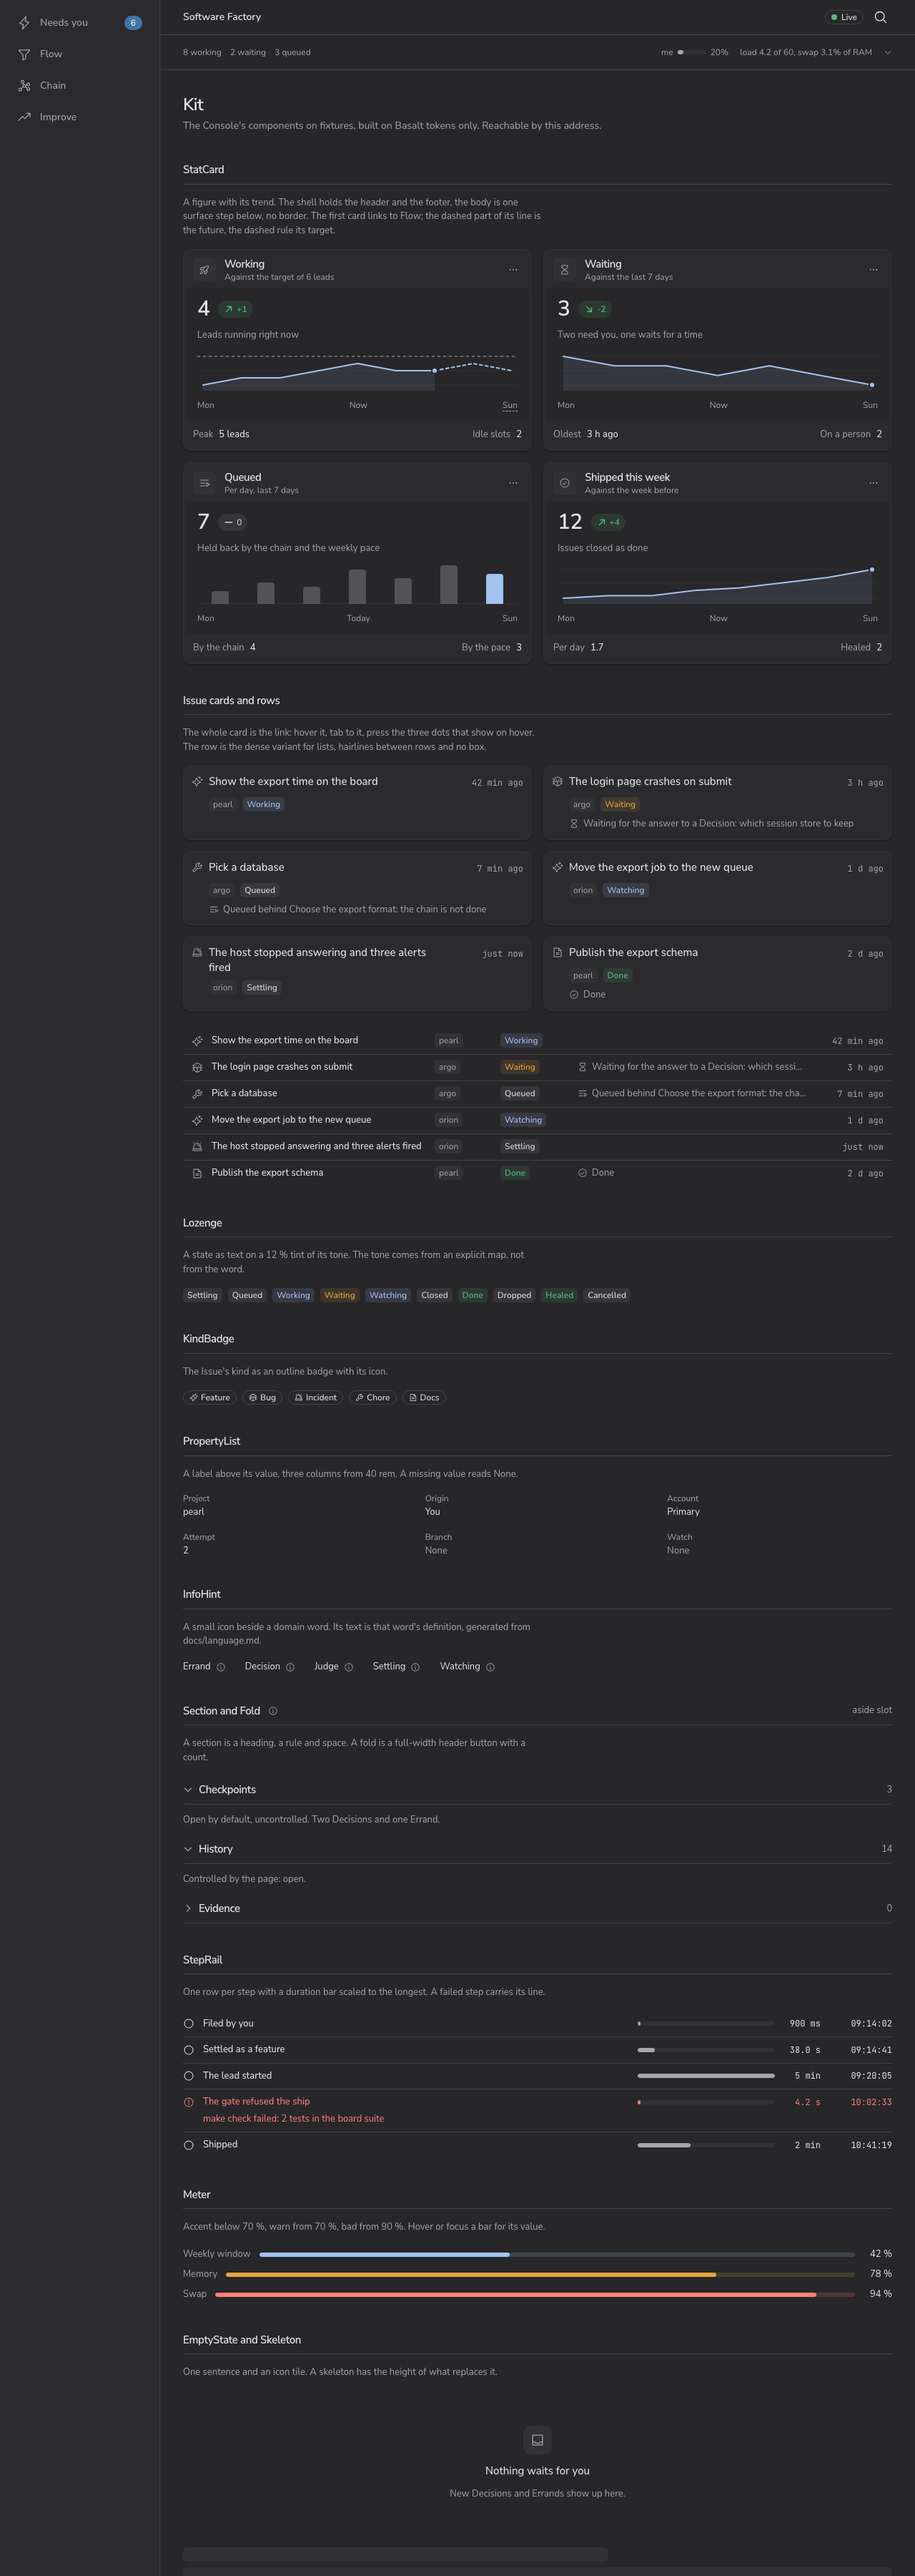
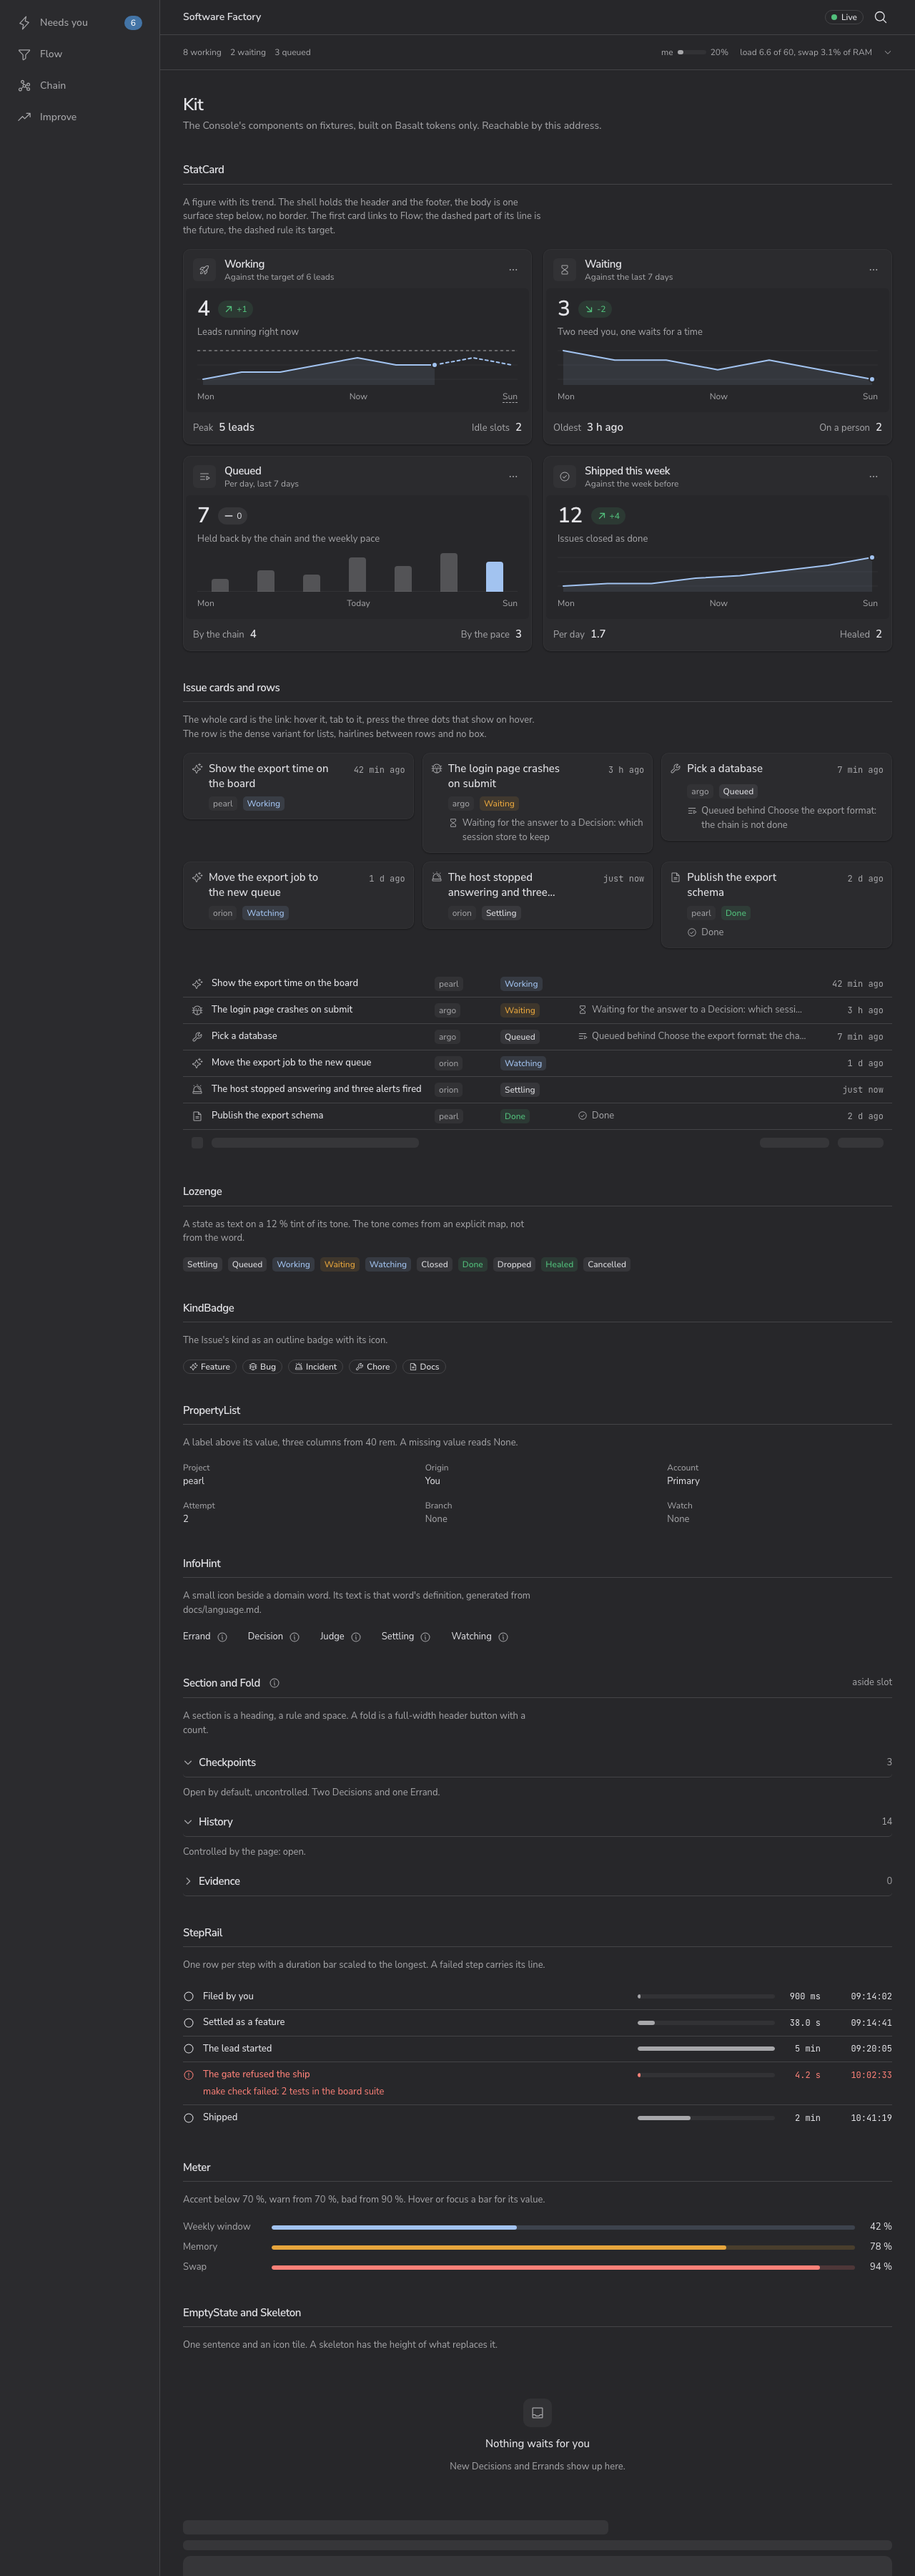
fix(console): kit review round 1: full-width Issue cards, error state, aligned meters, visible skeleton

diff --git a/apps/console/src/routes/kit.tsx b/apps/console/src/routes/kit.tsx
@@ -1,5 +1,12 @@
 import { createFileRoute, Link } from '@tanstack/react-router'
-import { CheckCircleIcon, HourglassIcon, QueueIcon, RocketLaunchIcon, TrayIcon } from '@phosphor-icons/react'
+import {
+  CheckCircleIcon,
+  HourglassIcon,
+  QueueIcon,
+  RocketLaunchIcon,
+  TrayIcon,
+  WarningCircleIcon,
+} from '@phosphor-icons/react'
 import { useState } from 'react'
 import {
   EmptyState,
@@ -19,6 +26,7 @@ import {
   StatCard,
   StepRail,
 } from '@/components/kit'
+import { Button } from '@/components/ui/button'
 import { KIT_ISSUES, KIT_METERS, KIT_NOW, KIT_PROPERTIES, KIT_STATS, KIT_STEPS } from '@/components/kit/fixtures'
 
 /** The component kit on fixtures: reachable by URL only (no nav entry, no palette command), no queries. */
@@ -80,22 +88,26 @@ function Kit() {
           The whole card is the link: hover it, tab to it, press the three dots that show on hover. The row is the dense
           variant for lists, hairlines between rows and no box.
         </Note>
-        <div className="grid grid-cols-1 gap-6 min-[1500px]:grid-cols-[3fr_2fr]">
-          <div className="grid grid-cols-1 content-start gap-4 md:grid-cols-2">
-            {KIT_ISSUES.map((i) => (
-              <IssueCard
-                key={i.key}
-                {...view(i)}
-                as={i.key === 'export-time' ? (p) => <Link to="/flow" {...p} /> : undefined}
-                href={i.key === 'export-time' ? undefined : `#${i.key}`}
-                onMenu={() => undefined}
-              />
-            ))}
-          </div>
-          <div className="flex flex-col content-start">
-            {KIT_ISSUES.map((i) => (
-              <IssueRow key={i.key} {...view(i)} href={`#${i.key}`} onMenu={() => undefined} />
-            ))}
+        <div className="grid grid-cols-[repeat(auto-fill,minmax(19rem,1fr))] items-start gap-3">
+          {KIT_ISSUES.map((i) => (
+            <IssueCard
+              key={i.key}
+              {...view(i)}
+              as={i.key === 'export-time' ? (p) => <Link to="/flow" {...p} /> : undefined}
+              href={i.key === 'export-time' ? undefined : `#${i.key}`}
+              onMenu={() => undefined}
+            />
+          ))}
+        </div>
+        <div className="mt-8 flex w-full flex-col">
+          {KIT_ISSUES.map((i) => (
+            <IssueRow key={i.key} {...view(i)} href={`#${i.key}`} onMenu={() => undefined} />
+          ))}
+          <div aria-hidden="true" className="flex min-h-9 items-center gap-3 border-t px-3 py-1.5">
+            <Skeleton height={16} width={16} rounded="rounded-sm" className="shrink-0" />
+            <Skeleton height={14} width="30%" />
+            <Skeleton height={14} width="10%" className="ml-auto" />
+            <Skeleton height={14} width={64} className="shrink-0" />
           </div>
         </div>
       </Section>
@@ -182,6 +194,18 @@ function Kit() {
             <Skeleton height={14} />
             <Skeleton height={56} rounded="rounded-xl" />
           </div>
+          <EmptyState
+            className="mt-4"
+            icon={WarningCircleIcon}
+            title="Could not load Flow"
+            action={
+              <Button variant="outline" onClick={() => undefined}>
+                Retry
+              </Button>
+            }
+          >
+            The server did not answer in time.
+          </EmptyState>
         </Section>
       </div>
     </div>

diff --git a/apps/console/src/components/kit/empty-state.tsx b/apps/console/src/components/kit/empty-state.tsx
@@ -8,11 +8,13 @@ export interface EmptyStateProps {
   /** A quieter line under it. */
   children?: ReactNode
   icon?: Icon
+  /** A control under the text, such as a retry button. */
+  action?: ReactNode
   className?: string
 }
 
 /** One sentence and an icon tile; no dashed box. */
-export function EmptyState({ title, children, icon: StateIcon = TrayIcon, className }: EmptyStateProps) {
+export function EmptyState({ title, children, icon: StateIcon = TrayIcon, action, className }: EmptyStateProps) {
   return (
     <div className={cn('flex flex-col items-center gap-3 px-6 py-12 text-center', className)}>
       <span className="grid size-10 place-items-center rounded-xl bg-muted text-muted-foreground">
@@ -22,6 +24,7 @@ export function EmptyState({ title, children, icon: StateIcon = TrayIcon, classN
       {children ? (
         <p className="max-w-prose text-[length:var(--vx-text-sm)] text-muted-foreground">{children}</p>
       ) : null}
+      {action ? <div className="mt-2">{action}</div> : null}
     </div>
   )
 }

diff --git a/apps/console/src/components/kit/stat-card.tsx b/apps/console/src/components/kit/stat-card.tsx
@@ -125,7 +125,7 @@ export function StatCard({
         </div>
         {menu ?? (onMenu ? <MenuButton onClick={onMenu} label={`${title} options`} /> : null)}
       </header>
-      <div className="flex flex-col gap-3 rounded-lg bg-background px-4 py-3.5">
+      <div className="flex flex-col gap-2 rounded-lg bg-background px-4 py-3.5">
         <div className="flex items-center gap-3">
           <span className="text-[length:var(--vx-text-display)] leading-none font-semibold tracking-tight proportional-nums">
             {value}
@@ -149,7 +149,7 @@ export function StatCard({
           {footer.map((pair) => (
             <div key={pair.label} className="flex min-w-0 items-baseline gap-2">
               <dt className="truncate text-muted-foreground">{pair.label}</dt>
-              <dd className="truncate font-medium tabular-nums">{pair.value}</dd>
+              <dd className="truncate text-[length:var(--vx-text-md)] font-semibold tabular-nums">{pair.value}</dd>
             </div>
           ))}
         </dl>

diff --git a/apps/console/src/components/kit/info-hint.tsx b/apps/console/src/components/kit/info-hint.tsx
@@ -23,11 +23,11 @@ export function InfoHint({ word, className }: InfoHintProps) {
         delay={150}
         aria-label={`What ${title} means`}
         className={cn(
-          'inline-grid size-5 shrink-0 place-items-center rounded-full text-muted-foreground transition-colors outline-none hover:text-foreground focus-visible:ring-3 focus-visible:ring-ring/50 data-popup-open:text-foreground',
+          'inline-grid size-6 shrink-0 place-items-center rounded-full text-muted-foreground transition-colors outline-none hover:text-foreground focus-visible:ring-3 focus-visible:ring-ring/50 data-popup-open:text-foreground',
           className,
         )}
       >
-        <InfoIcon className="size-3.5" aria-hidden="true" />
+        <InfoIcon className="size-4" aria-hidden="true" />
       </Popover.Trigger>
       <Popover.Portal>
         <Popover.Positioner sideOffset={6} className="isolate z-50">

diff --git a/apps/console/src/components/kit/issue-row.tsx b/apps/console/src/components/kit/issue-row.tsx
@@ -31,7 +31,7 @@ export function IssueRow({
       )}
     >
       <KindIcon className="size-4 shrink-0 text-muted-foreground" aria-label={kind} role="img" />
-      <span className="min-w-0 flex-1 truncate font-medium">
+      <span className="min-w-0 flex-1 line-clamp-2 font-medium min-[40rem]:line-clamp-1">
         <CardLink href={href} as={as}>
           {title}
         </CardLink>
@@ -42,7 +42,7 @@ export function IssueRow({
       <span className="shrink-0 min-[40rem]:w-24">
         <Lozenge state={state} />
       </span>
-      <div className="hidden w-80 shrink-0 min-[64rem]:block">
+      <div className="hidden shrink-0 min-[64rem]:block min-[64rem]:w-80 min-[90rem]:w-[28rem]">
         {reason ? <ReasonLine state={state} reason={reason} className="[&>span]:truncate" /> : null}
       </div>
       <AgeColumn since={since} now={now} onMenu={onMenu} title={title} />

diff --git a/tests/e2e/screenshots.e2e.ts b/tests/e2e/screenshots.e2e.ts
@@ -56,7 +56,7 @@ for (const variant of VARIANTS) {
         if (name === 'kit') {
           // The Shell scrolls inside itself, so a full-page shot stops at the viewport: shoot the whole kit on a tall one.
           const { width, height } = page.viewportSize() ?? variant.viewport
-          await page.setViewportSize({ width, height: 3600 })
+          await page.setViewportSize({ width, height: width < 600 ? 7000 : 3600 })
           await page.waitForLoadState('networkidle')
           await shot('kit-tall')
           await page.setViewportSize({ width, height })

diff --git a/apps/console/src/components/kit/meter.tsx b/apps/console/src/components/kit/meter.tsx
@@ -28,7 +28,7 @@ export function Meter({ value, label, valueText, className }: MeterProps) {
   const mark = TONE_MARK[meterTone(clamped)]
   return (
     <div className={cn('flex items-center gap-3 text-[length:var(--vx-text-sm)]', className)}>
-      {label ? <span className="shrink-0 text-muted-foreground">{label}</span> : null}
+      {label ? <span className="w-28 shrink-0 text-muted-foreground">{label}</span> : null}
       <div
         role="meter"
         tabIndex={0}

diff --git a/apps/console/src/components/kit/skeleton.tsx b/apps/console/src/components/kit/skeleton.tsx
@@ -14,7 +14,7 @@ export function Skeleton({ height = 16, width = '100%', rounded = 'rounded-lg', 
   return (
     <div
       aria-hidden="true"
-      className={cn('animate-pulse bg-muted motion-reduce:animate-none', rounded, className)}
+      className={cn('animate-pulse bg-foreground/8 motion-reduce:animate-none', rounded, className)}
       style={{ height, width }}
     />
   )

diff --git a/apps/console/src/components/kit/issue-parts.tsx b/apps/console/src/components/kit/issue-parts.tsx
@@ -47,7 +47,9 @@ export function ReasonLine({ state, reason, className }: { state: LozengeState; 
       )}
     >
       <ReasonIcon className="mt-0.5 size-3.5 shrink-0" aria-hidden="true" />
-      <span className="min-w-0">{reason}</span>
+      <span className="min-w-0" title={reason}>
+        {reason}
+      </span>
     </p>
   )
 }
